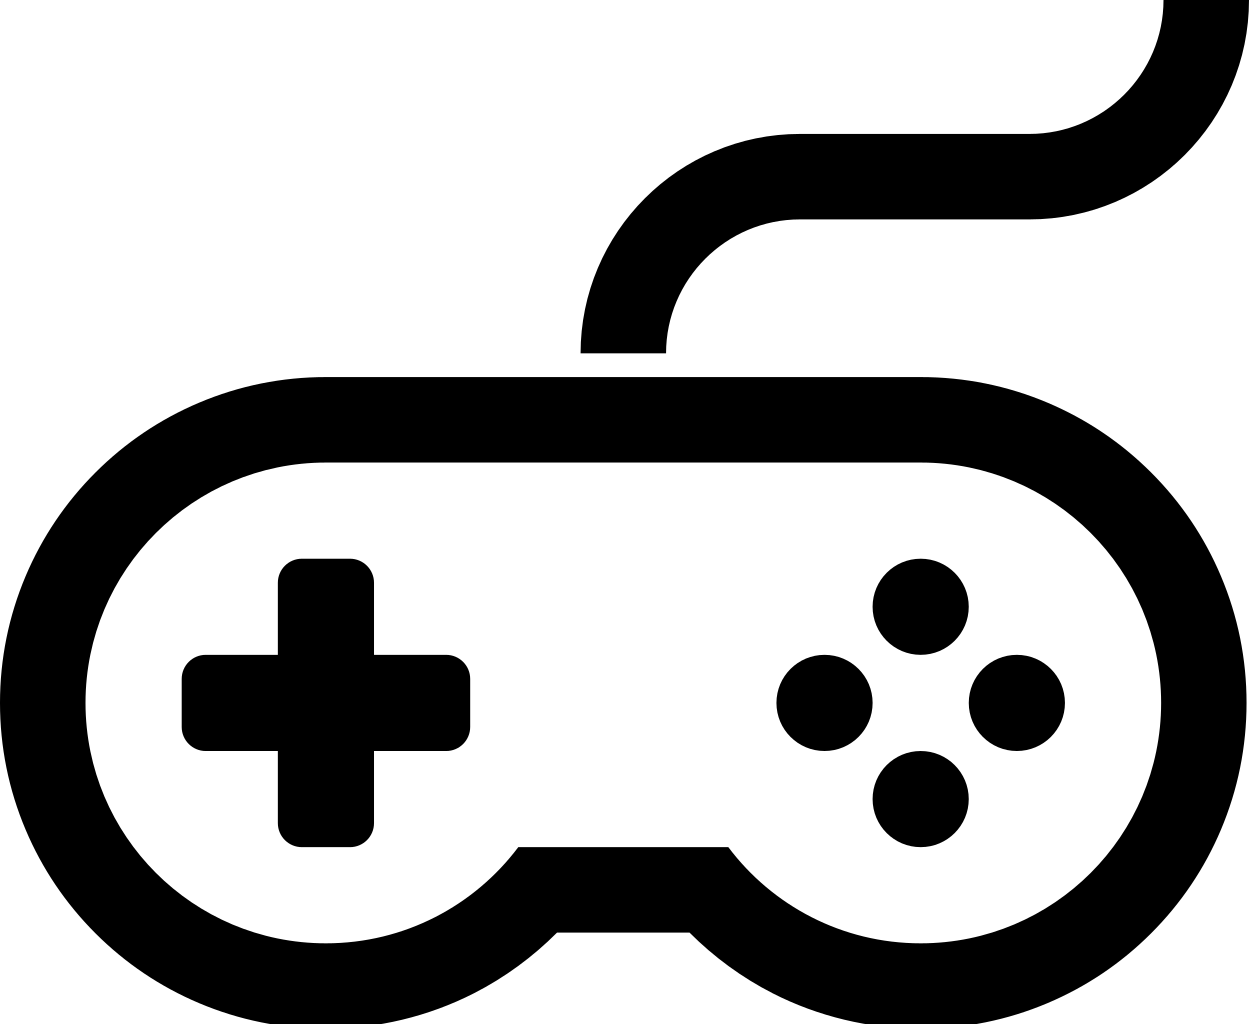
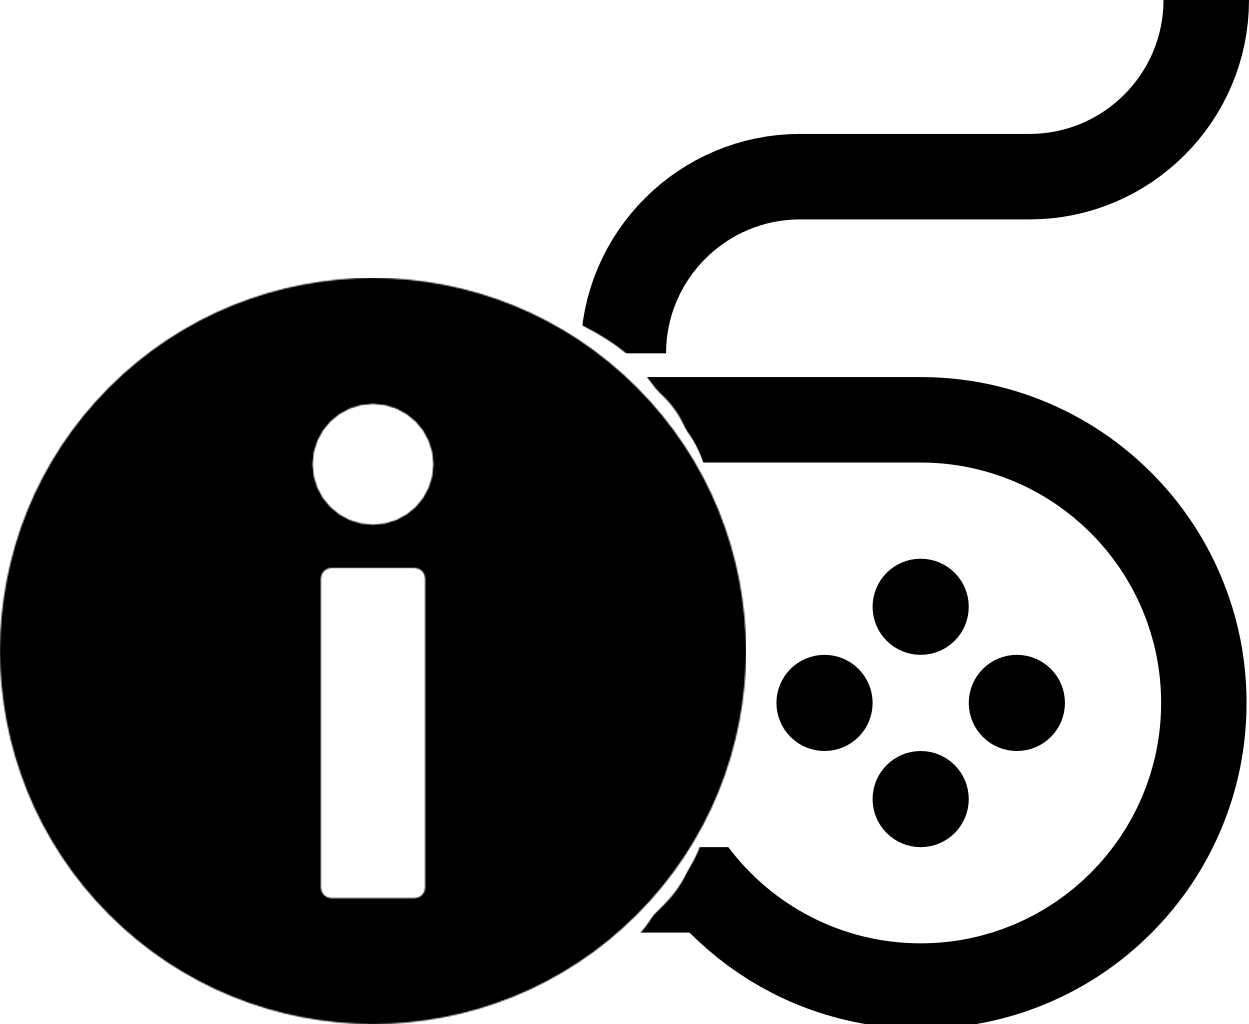
26.01.2023

diff --git a/levels/level1.js b/levels/level1.js
@@ -7,104 +7,127 @@ let level1;
 function initLevel() {
     level1 = new Level(
 
-        [
-            new NormalChicken(),
-            new NormalChicken(),
-            new NormalChicken(),
-            new SmallChicken(),
-            new SmallChicken(),
-            new SmallChicken(),
-        ],
-
-        [
-            new Endboss(),
-        ],
-
-        [
-            new Cloud('img/5_background/layers/4_clouds/1.png', 100),
-            new Cloud('img/5_background/layers/4_clouds/1.png', 600),
-            new Cloud('img/5_background/layers/4_clouds/2.png', 1100),
-            new Cloud('img/5_background/layers/4_clouds/2.png', 1600),
-            new Cloud('img/5_background/layers/4_clouds/1.png', 2000),
-            new Cloud('img/5_background/layers/4_clouds/1.png', 2500),
-            new Cloud('img/5_background/layers/4_clouds/2.png', 3000),
-            new Cloud('img/5_background/layers/4_clouds/2.png', 3500),
-            new Cloud('img/5_background/layers/4_clouds/1.png', 4000),
-            new Cloud('img/5_background/layers/4_clouds/1.png', 4500),
-        ],
-
-        [
-            new BackgroundObject('img/5_background/layers/air.png', -819),
-            new BackgroundObject('img/5_background/layers/3_third_layer/2.png', -819),
-            new BackgroundObject('img/5_background/layers/2_second_layer/2.png', -819),
-            new BackgroundObject('img/5_background/layers/1_first_layer/2.png', -819),
-
-            new BackgroundObject('img/5_background/layers/air.png', 0),
-            new BackgroundObject('img/5_background/layers/3_third_layer/1.png', 0),
-            new BackgroundObject('img/5_background/layers/2_second_layer/1.png', 0),
-            new BackgroundObject('img/5_background/layers/1_first_layer/1.png', 0),
-
-            new BackgroundObject('img/5_background/layers/air.png', 819),
-            new BackgroundObject('img/5_background/layers/3_third_layer/2.png', 819),
-            new BackgroundObject('img/5_background/layers/2_second_layer/2.png', 819),
-            new BackgroundObject('img/5_background/layers/1_first_layer/2.png', 819),
-
-            new BackgroundObject('img/5_background/layers/air.png', 819 * 2),
-            new BackgroundObject('img/5_background/layers/3_third_layer/1.png', 819 * 2),
-            new BackgroundObject('img/5_background/layers/2_second_layer/1.png', 819 * 2),
-            new BackgroundObject('img/5_background/layers/1_first_layer/1.png', 819 * 2),
-
-            new BackgroundObject('img/5_background/layers/air.png', 819 * 3),
-            new BackgroundObject('img/5_background/layers/3_third_layer/2.png', 819 * 3),
-            new BackgroundObject('img/5_background/layers/2_second_layer/2.png', 819 * 3),
-            new BackgroundObject('img/5_background/layers/1_first_layer/2.png', 819 * 3),
-
-            new BackgroundObject('img/5_background/layers/air.png', 819 * 4),
-            new BackgroundObject('img/5_background/layers/3_third_layer/1.png', 819 * 4),
-            new BackgroundObject('img/5_background/layers/2_second_layer/1.png', 819 * 4),
-            new BackgroundObject('img/5_background/layers/1_first_layer/1.png', 819 * 4),
-
-            new BackgroundObject('img/5_background/layers/air.png', 819 * 5),
-            new BackgroundObject('img/5_background/layers/3_third_layer/2.png', 819 * 5),
-            new BackgroundObject('img/5_background/layers/2_second_layer/2.png', 819 * 5),
-            new BackgroundObject('img/5_background/layers/1_first_layer/2.png', 819 * 5),
-        ],
-
-        [
-            new Coin('img/8_coin/coin_1.png'),
-            new Coin('img/8_coin/coin_1.png'),
-            new Coin('img/8_coin/coin_1.png'),
-            new Coin('img/8_coin/coin_1.png'),
-            new Coin('img/8_coin/coin_1.png'),
-            new Coin('img/8_coin/coin_1.png'),
-            new Coin('img/8_coin/coin_1.png'),
-            new Coin('img/8_coin/coin_1.png'),
-            new Coin('img/8_coin/coin_1.png'),
-            new Coin('img/8_coin/coin_1.png'),
-            new Coin('img/8_coin/coin_1.png'),
-            new Coin('img/8_coin/coin_1.png'),
-            new Coin('img/8_coin/coin_1.png'),
-            new Coin('img/8_coin/coin_1.png'),
-            new Coin('img/8_coin/coin_1.png'),
-            new Coin('img/8_coin/coin_1.png'),
-            new Coin('img/8_coin/coin_1.png'),
-            new Coin('img/8_coin/coin_1.png'),
-            new Coin('img/8_coin/coin_1.png'),
-            new Coin('img/8_coin/coin_1.png'),
-            new Coin('img/8_coin/coin_1.png'),
-        ],
-
-        [
-            new Bottle('img/6_salsa_bottle/1_salsa_bottle_on_ground.png', 350),
-            new Bottle('img/6_salsa_bottle/1_salsa_bottle_on_ground.png', 350),
-            new Bottle('img/6_salsa_bottle/1_salsa_bottle_on_ground.png', 350),
-            new Bottle('img/6_salsa_bottle/2_salsa_bottle_on_ground.png', 350),
-            new Bottle('img/6_salsa_bottle/2_salsa_bottle_on_ground.png', 350),
-            new Bottle('img/6_salsa_bottle/2_salsa_bottle_on_ground.png', 350),
-            new Bottle('img/6_salsa_bottle/2_salsa_bottle_on_ground.png', 350),
-            new Bottle('img/6_salsa_bottle/2_salsa_bottle_on_ground.png', 350),
-            new Bottle('img/6_salsa_bottle/2_salsa_bottle_on_ground.png', 350),
-            new Bottle('img/6_salsa_bottle/2_salsa_bottle_on_ground.png', 350),
-        ],
+        createAnimal(),
+        createEndboss(),
+        createClouds(),
+        createBackground(),
+        createCoins(),
+        createBottle(),
     );
+}
+
+function createAnimal() {
+    return [
+        new NormalChicken(),
+        new NormalChicken(),
+        new NormalChicken(),
+        new NormalChicken(),
+        new NormalChicken(),
+        new SmallChicken(),
+        new SmallChicken(),
+        new SmallChicken(),
+        new SmallChicken(),
+        new SmallChicken(),
+    ]
+}
+
+function createEndboss() {
+    return [
+        new Endboss(),
+    ]
+}
+
+function createClouds() {
+    return [
+        new Cloud('img/5_background/layers/4_clouds/1.png', 100),
+        new Cloud('img/5_background/layers/4_clouds/1.png', 600),
+        new Cloud('img/5_background/layers/4_clouds/2.png', 1100),
+        new Cloud('img/5_background/layers/4_clouds/2.png', 1600),
+        new Cloud('img/5_background/layers/4_clouds/1.png', 2000),
+        new Cloud('img/5_background/layers/4_clouds/1.png', 2500),
+        new Cloud('img/5_background/layers/4_clouds/2.png', 3000),
+        new Cloud('img/5_background/layers/4_clouds/2.png', 3500),
+        new Cloud('img/5_background/layers/4_clouds/1.png', 4000),
+        new Cloud('img/5_background/layers/4_clouds/1.png', 4500),
+    ]
+}
+
+function createBackground() {
+    return [
+        new BackgroundObject('img/5_background/layers/air.png', -819),
+        new BackgroundObject('img/5_background/layers/3_third_layer/2.png', -819),
+        new BackgroundObject('img/5_background/layers/2_second_layer/2.png', -819),
+        new BackgroundObject('img/5_background/layers/1_first_layer/2.png', -819),
+
+        new BackgroundObject('img/5_background/layers/air.png', 0),
+        new BackgroundObject('img/5_background/layers/3_third_layer/1.png', 0),
+        new BackgroundObject('img/5_background/layers/2_second_layer/1.png', 0),
+        new BackgroundObject('img/5_background/layers/1_first_layer/1.png', 0),
+
+        new BackgroundObject('img/5_background/layers/air.png', 819),
+        new BackgroundObject('img/5_background/layers/3_third_layer/2.png', 819),
+        new BackgroundObject('img/5_background/layers/2_second_layer/2.png', 819),
+        new BackgroundObject('img/5_background/layers/1_first_layer/2.png', 819),
+
+        new BackgroundObject('img/5_background/layers/air.png', 819 * 2),
+        new BackgroundObject('img/5_background/layers/3_third_layer/1.png', 819 * 2),
+        new BackgroundObject('img/5_background/layers/2_second_layer/1.png', 819 * 2),
+        new BackgroundObject('img/5_background/layers/1_first_layer/1.png', 819 * 2),
+
+        new BackgroundObject('img/5_background/layers/air.png', 819 * 3),
+        new BackgroundObject('img/5_background/layers/3_third_layer/2.png', 819 * 3),
+        new BackgroundObject('img/5_background/layers/2_second_layer/2.png', 819 * 3),
+        new BackgroundObject('img/5_background/layers/1_first_layer/2.png', 819 * 3),
+
+        new BackgroundObject('img/5_background/layers/air.png', 819 * 4),
+        new BackgroundObject('img/5_background/layers/3_third_layer/1.png', 819 * 4),
+        new BackgroundObject('img/5_background/layers/2_second_layer/1.png', 819 * 4),
+        new BackgroundObject('img/5_background/layers/1_first_layer/1.png', 819 * 4),
+
+        new BackgroundObject('img/5_background/layers/air.png', 819 * 5),
+        new BackgroundObject('img/5_background/layers/3_third_layer/2.png', 819 * 5),
+        new BackgroundObject('img/5_background/layers/2_second_layer/2.png', 819 * 5),
+        new BackgroundObject('img/5_background/layers/1_first_layer/2.png', 819 * 5),
+    ]
+}
+
+function createCoins() {
+    return [
+        new Coin('img/8_coin/coin_1.png'),
+        new Coin('img/8_coin/coin_1.png'),
+        new Coin('img/8_coin/coin_1.png'),
+        new Coin('img/8_coin/coin_1.png'),
+        new Coin('img/8_coin/coin_1.png'),
+        new Coin('img/8_coin/coin_1.png'),
+        new Coin('img/8_coin/coin_1.png'),
+        new Coin('img/8_coin/coin_1.png'),
+        new Coin('img/8_coin/coin_1.png'),
+        new Coin('img/8_coin/coin_1.png'),
+        new Coin('img/8_coin/coin_1.png'),
+        new Coin('img/8_coin/coin_1.png'),
+        new Coin('img/8_coin/coin_1.png'),
+        new Coin('img/8_coin/coin_1.png'),
+        new Coin('img/8_coin/coin_1.png'),
+        new Coin('img/8_coin/coin_1.png'),
+        new Coin('img/8_coin/coin_1.png'),
+        new Coin('img/8_coin/coin_1.png'),
+        new Coin('img/8_coin/coin_1.png'),
+        new Coin('img/8_coin/coin_1.png'),
+        new Coin('img/8_coin/coin_1.png'),
+    ]
+}
+
+function createBottle() {
+    return [
+        new Bottle('img/6_salsa_bottle/1_salsa_bottle_on_ground.png', 350),
+        new Bottle('img/6_salsa_bottle/1_salsa_bottle_on_ground.png', 350),
+        new Bottle('img/6_salsa_bottle/1_salsa_bottle_on_ground.png', 350),
+        new Bottle('img/6_salsa_bottle/2_salsa_bottle_on_ground.png', 350),
+        new Bottle('img/6_salsa_bottle/2_salsa_bottle_on_ground.png', 350),
+        new Bottle('img/6_salsa_bottle/2_salsa_bottle_on_ground.png', 350),
+        new Bottle('img/6_salsa_bottle/2_salsa_bottle_on_ground.png', 350),
+        new Bottle('img/6_salsa_bottle/2_salsa_bottle_on_ground.png', 350),
+        new Bottle('img/6_salsa_bottle/2_salsa_bottle_on_ground.png', 350),
+        new Bottle('img/6_salsa_bottle/2_salsa_bottle_on_ground.png', 350),
+    ]
 }

diff --git a/javascript/game.js b/javascript/game.js
@@ -5,7 +5,6 @@ let audioBackgroundMusicInGame = new Audio('audio/backgroundMusic.mp3');
 let audioWalkCharacter = new Audio('audio/running.mp3');
 let audioJumpCharacter = new Audio('audio/jump.mp3');
 let auidoHurtCharacter = new Audio('audio/hit.mp3');
-let audioSleepCharacter = new Audio('audio/snoring.mp3');
 let audioGameLost = new Audio('audio/gameOver.mp3');
 let audioCoinCollected = new Audio('audio/collectcoinCoins.mp3');
 let audioBottleCollected = new Audio('audio/collectcoinThroebel.mp3');
@@ -171,6 +170,8 @@ function addStylesForFullScreen() {
     document.getElementById('canvas').classList.add('canvasFullScreen');
     document.getElementById('winScreenContainer').classList.add('winScreenContainerFullScreen', 'winScreenContainerFullScreenh2', 'imgTrophyContainerFullScreenimg');
     document.getElementById('gameOverScreen').classList.add('gameOverScreenFullScreen');
+    document.getElementById('positionAbsoluteLeft').classList.add('d-none');
+    document.getElementById('positionAbsoluteRight').classList.add('d-none');
 }
 
 
@@ -194,6 +195,8 @@ function removeStylesForFullScreen() {
     document.getElementById('canvas').classList.remove('canvasFullScreen');
     document.getElementById('winScreenContainer').classList.remove('winScreenContainerFullScreen', 'winScreenContainerFullScreenh2', 'imgTrophyContainerFullScreenimg');
     document.getElementById('gameOverScreen').classList.remove('gameOverScreenFullScreen');
+    document.getElementById('positionAbsoluteLeft').classList.remove('d-none');
+    document.getElementById('positionAbsoluteRight').classList.remove('d-none');
 }
 
 
@@ -209,7 +212,6 @@ function turnSoundOff() {
     audioBottleCollected.muted = false;
     audioThrowBottle.muted = false;
     audioSplashBottle.muted = false;
-    audioSleepCharacter.muted = false;
     document.getElementById('audioOnIcon').classList.remove('d-none');
     document.getElementById('audioOffIcon').classList.add('d-none');
 }
@@ -227,7 +229,6 @@ function turnSoundOn() {
     audioBottleCollected.muted = true;
     audioThrowBottle.muted = true;
     audioSplashBottle.muted = true;
-    audioSleepCharacter.muted = true;
     document.getElementById('audioOffIcon').classList.remove('d-none');
     document.getElementById('audioOnIcon').classList.add('d-none');
 

diff --git a/css/style.css b/css/style.css
@@ -99,7 +99,7 @@ canvas {
     padding-right: 30px;
     font-weight: bold;
     font-size: 20px;
-    font-family: 'Aref Ruqaa Ink';
+    font-family: 'zabras', Arial, Helvetica, sans-serif;
     animation: scale-in-center 225ms cubic-bezier(0.250, 0.460, 0.450, 0.940) 100ms both;
 }
 
@@ -122,7 +122,7 @@ canvas {
     padding-right: 30px;
     font-weight: bold;
     font-size: 20px;
-    font-family: 'Aref Ruqaa Ink';
+    font-family: 'zabras', Arial, Helvetica, sans-serif;
     animation: scale-in-center 225ms cubic-bezier(0.250, 0.460, 0.450, 0.940) 100ms both;
 }
 
@@ -221,7 +221,7 @@ canvas {
 
 .containerGameControlls {
     width: 820px;
-    height: 480px;
+    height: 580px;
     background-color: #795548;
     display: flex;
     flex-direction: column;
@@ -234,6 +234,28 @@ canvas {
     font-size: 35px;
     margin-top: 15px;
     margin-bottom: 20px;
+}
+
+
+.infoIcon {
+    width: 40px;
+    height: 40px;
+    object-fit: contain;
+    padding: 20px;
+}
+
+
+.infoDivContainer {
+    display: flex;
+    justify-content: center;
+    align-items: center;
+    padding-top: 20px;
+}
+
+
+.infoText {
+    font-size: 25px;
+    font-weight: bold;
 }
 
 
@@ -321,8 +343,6 @@ canvas {
 .loadingScreenContainer h2 {
     color: white;
     font-size: 60px;
-    margin-bottom: 30px;
-    margin-top: 0;
     padding-right: 20px;
 }
 
@@ -353,7 +373,7 @@ canvas {
 .winScreenContainer .btnContainer {
     display: flex;
     justify-content: space-between;
-    margin-top: 90px;
+    margin-top: 169px;
 }
 
 
@@ -432,3 +452,20 @@ canvas {
 }
 
 /*************************** Only Keyframes ***************************/
+
+
+
+/*************************** Hide Touchbutton ***************************/
+
+@media (min-width: 820px) {
+
+    .positionAbsoluteLeft {
+        display: none;
+    }
+
+    .positionAbsoluteRight {
+        display: none;
+    }
+}
+
+/*************************** Hide Touchbutton ***************************/

diff --git a/index.html b/index.html
@@ -185,6 +185,14 @@
             </tr>
 
         </table>
+
+        <div class="infoDivContainer">
+            <img src="icons/infoIcon.png" class="infoIcon">
+            <span class="infoText">
+                If you stand behind the boss, the game is lost.
+            </span>
+        </div>
+
     </div>
     <!--Steering Menu-->
 </body>

diff --git a/models/character.class.js b/models/character.class.js
@@ -201,8 +201,6 @@ class Character extends MovableObject {
 
 
     characterSleepAnimation() {
-        audioSleepCharacter.volume = 0.5;
-        audioSleepCharacter.play();
         this.playAnimationMo(this.imagesLongIdleCharacter);
     }
 }
